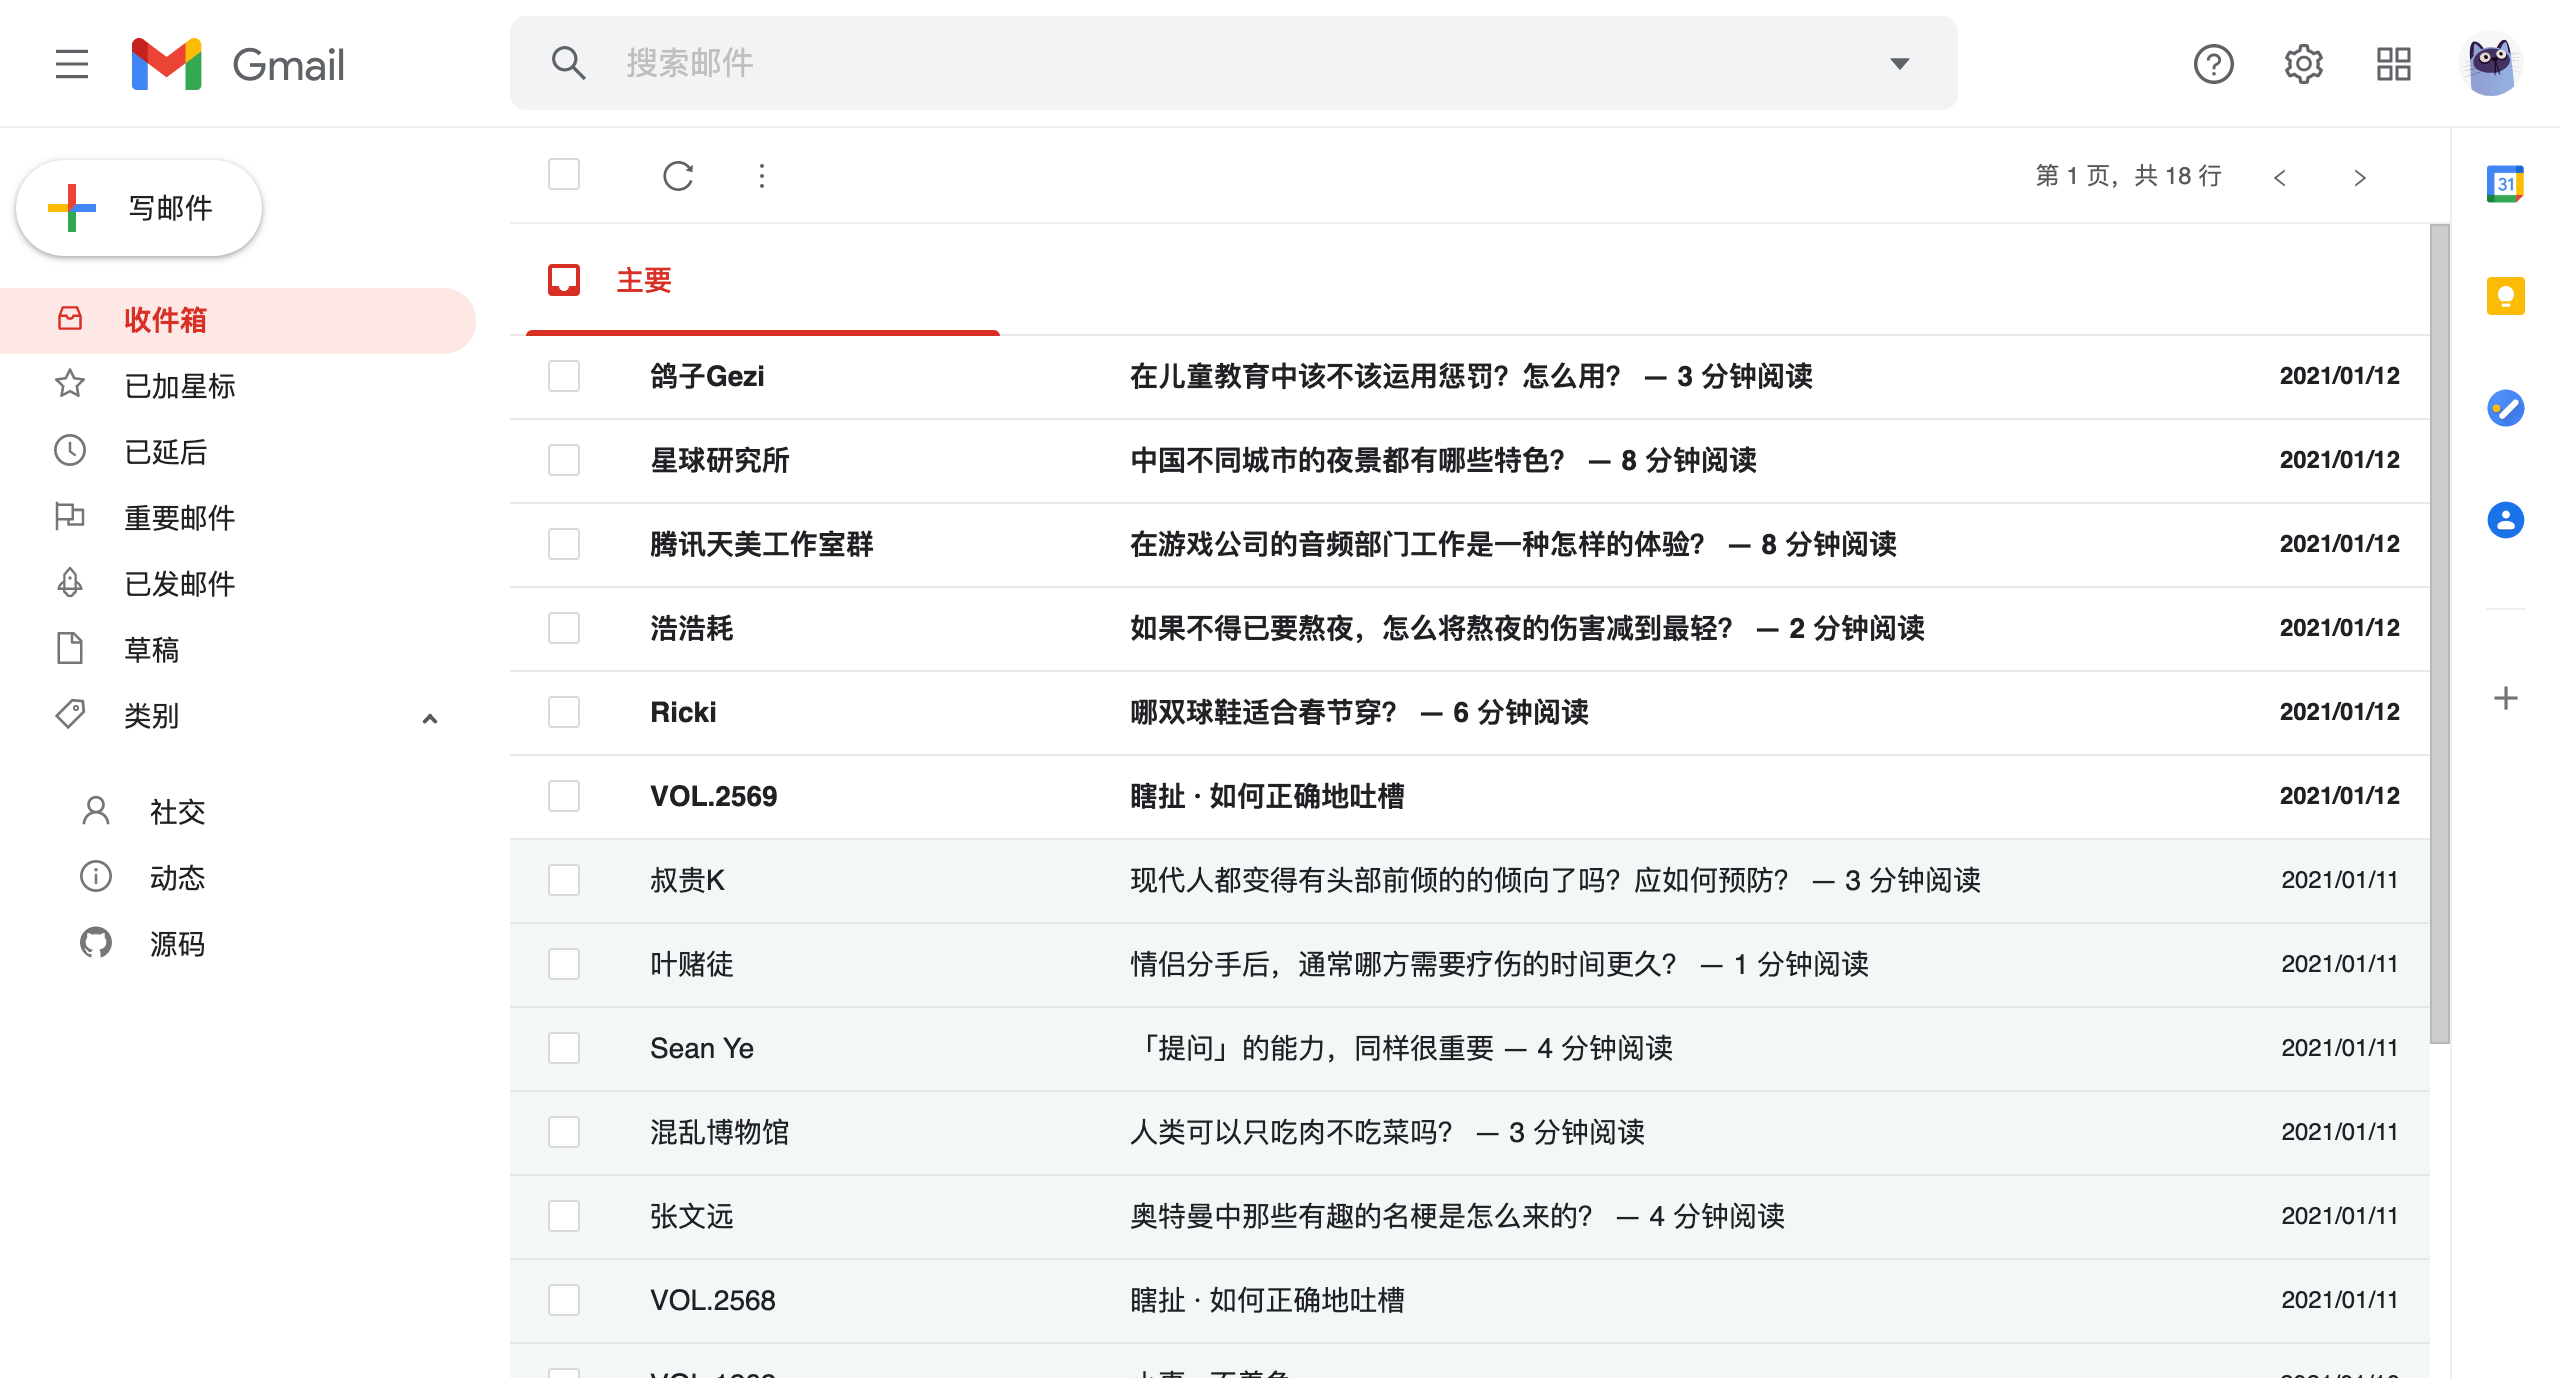
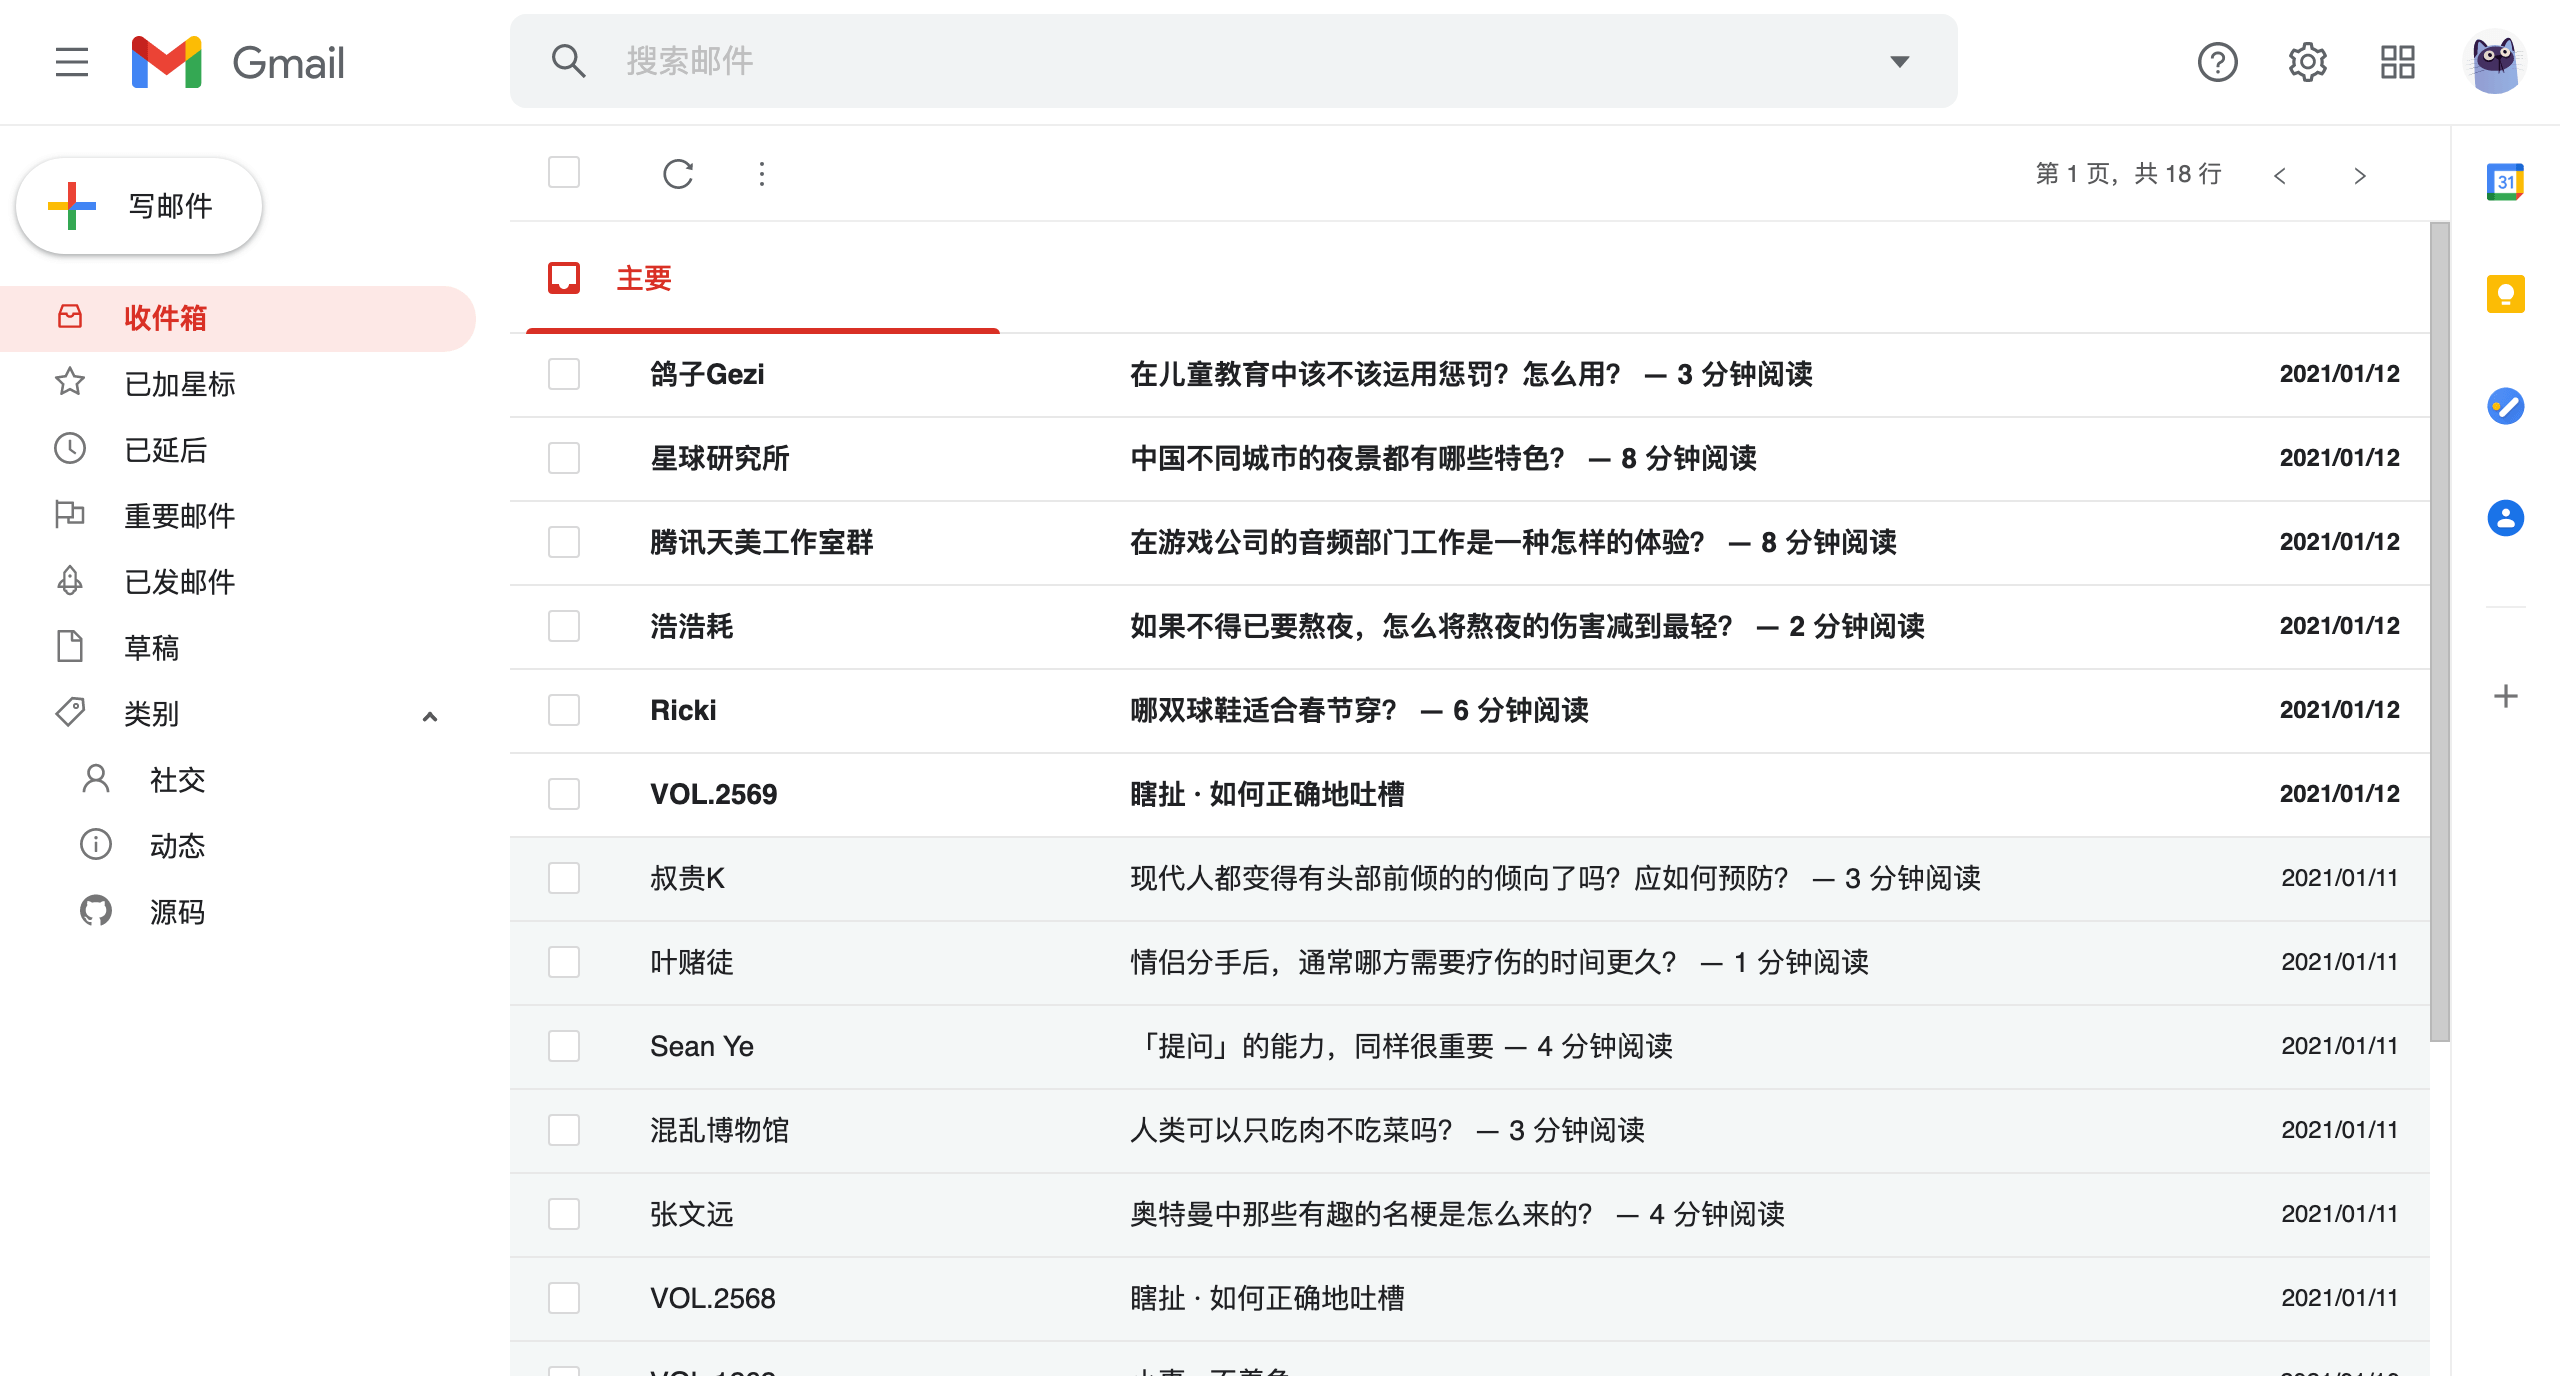
feat: responsive

diff --git a/components/Header.vue b/components/Header.vue
@@ -14,29 +14,28 @@
       </div>
     </div>
     <div class="toolbar">
-      <a-input
-        class="search-box"
-        placeholder="搜索邮件"
-      >
-        <a-tooltip
-          slot="prefix"
-          title="搜索"
-          placement="bottom"
-        >
-          <a-button>
-            <a-icon type="search" />
-          </a-button>
-        </a-tooltip>
-        <a-tooltip
-          slot="suffix"
-          title="显示搜索选项"
-          placement="bottom"
-        >
-          <a-button>
-            <a-icon type="caret-down" />
-          </a-button>
-        </a-tooltip>
-      </a-input>
+      <div class="search-box">
+        <a-input placeholder="搜索邮件">
+          <a-tooltip
+            slot="prefix"
+            title="搜索"
+            placement="bottom"
+          >
+            <a-button>
+              <a-icon type="search" />
+            </a-button>
+          </a-tooltip>
+          <a-tooltip
+            slot="suffix"
+            title="显示搜索选项"
+            placement="bottom"
+          >
+            <a-button>
+              <a-icon type="caret-down" />
+            </a-button>
+          </a-tooltip>
+        </a-input>
+      </div>
       <div class="info">
         <a-tooltip title="支持" placement="bottom">
           <a-button>
@@ -98,26 +97,29 @@
     display flex
     flex 1
     .search-box
-      padding 8px 0
-      width 724px
-      button
-        width 38px
-        height 38px
-        .anticon
-          color $icon-color
-        &:hover,
-        &:active,
-        &:focus
-          background #E2E5E6
-      .ant-input-prefix
-        left 10px
-        .anticon
-          font-size 19px
-          margin-top 3px
-      .ant-input-suffix
-        right 10px
-        .anticon
-          margin-top 5px
+      display flex
+      flex 1
+      .ant-input-affix-wrapper
+        max-width 724px
+        padding 8px 0
+        button
+          width 38px
+          height 38px
+          .anticon
+            color $icon-color
+          &:hover,
+          &:active,
+          &:focus
+            background #E2E5E6
+        .ant-input-prefix
+          left 10px
+          .anticon
+            font-size 19px
+            margin-top 3px
+        .ant-input-suffix
+          right 10px
+          .anticon
+            margin-top 5px
       input
         height 100%
         border-radius 8px
@@ -130,11 +132,11 @@
           box-shadow 0 1px 1px 0 rgba(65, 69, 73, 0.3), 0 1px 3px 0 rgba(65, 69, 73, 0.15)
           -webkit-box-shadow 0 1px 1px 0 rgba(65, 69, 73, 0.3), 0 1px 3px 0 rgba(65, 69, 73, 0.15)
     .info
-      display flex
-      flex 1
+      width 210px
       justify-content flex-end
       align-items center
-      padding 0 15px
+      padding-right 13px
+      display flex
       button
         width 40px
         height 40px
@@ -148,4 +150,12 @@
           width 33px
           height 33px
           border-radius 50%
+  @media (max-width: 768px)
+    .sitename .logo,
+    .toolbar .info
+      display none
+    .sitename
+      width 73px
+    .toolbar
+      padding-right 5px
 </style>

diff --git a/layouts/default.vue b/layouts/default.vue
@@ -2,7 +2,7 @@
   <a-layout class="mail-layout">
     <Header @toggle-collapsed="toggleCollapsed" />
     <a-layout :class="{ 'side-collapsed': collapsed }">
-      <Sidebar :collapsed="collapsed" />
+      <Sidebar :collapsed="collapsed" @toggle-collapsed="toggleCollapsed" />
       <SidebarRight />
       <a-layout class="mailbox">
         <a-layout-content class="content">
@@ -27,6 +27,19 @@ export default {
   data() {
     return {
       collapsed: false,
+      screenWidth: 0
+    }
+  },
+  mounted() {
+    this.screenWidth = document.body.clientWidth
+    this.collapsed = this.screenWidth <= 768 ? true : false
+
+    const that = this
+    window.onresize = () => {
+      return (() => {
+        that.screenWidth = document.body.clientWidth
+        that.collapsed = that.screenWidth <= 768 ? true : false
+      })()
     }
   },
   methods: {
@@ -108,6 +121,19 @@ body
       margin-left $sidebar-width-collapsed
       .content .header
         width calc(100% - 73px - 55px)
+
+  @media (max-width: 768px)
+    .mailbox
+      margin-left $sidebar-width-collapsed
+      margin-right 0
+      &::-webkit-scrollbar
+        width 5px
+      &::-webkit-scrollbar-thumb
+        border-radius 3px
+      .content .header
+        width calc(100% - 73px)
+    .side-collapsed .mailbox .content .header
+      width calc(100% - 73px)
 
 .ant-tooltip
   .ant-tooltip-arrow

diff --git a/components/Sidebar.vue b/components/Sidebar.vue
@@ -13,6 +13,7 @@
       </div>
     </div>
     <a-menu
+      class="menu"
       mode="inline"
       :default-selected-keys="['menu-inbox']"
       :default-open-keys="['menu-catagory']"
@@ -104,10 +105,12 @@ export default {
       padding 0 24px 0 0
       border-radius 24px
       cursor pointer
+      transition box-shadow 0.15s, background-color 0.15s
       &:hover
         box-shadow 0 1px 2px 0 rgba(60, 64 67, 0.3),
                     0 1px 3px 1px rgba(60, 64, 67, 0.1),
-                    0 3px 8px 5px rgba(60, 64 67, 0.12)
+                    0 3px 8px 4px rgba(60, 64 67, 0.13)
+        background-color #fafafb
       &::before
         content ''
         display block
@@ -117,9 +120,9 @@ export default {
         background-repeat no-repeat
         background-size 32px
         background-image url(https://www.gstatic.com/images/icons/material/colored_icons/2x/create_32dp.png)
-  .ant-menu
+  .menu
     padding-right 18px
-    margin-top 15px
+    width $sidebar-width
     .anticon
       font-size 16px
       color #767676
@@ -167,4 +170,6 @@ export default {
         &::before
           width 56px
           height 56px
+    .menu
+      width $sidebar-width-collapsed
 </style>

diff --git a/pages/index.vue b/pages/index.vue
@@ -55,18 +55,6 @@
         </a-table>
       </a-tab-pane>
     </a-tabs>
-
-    <!-- <a-table
-      :columns="columns"
-      :data-source="data"
-      :showHeader="false"
-      :row-selection="selectItem"
-      :pagination="false"
-      :customRow="goToArticle"
-      :rowClassName="setClassName"
-    >
-      <div class="time" slot="time" slot-scope="text">{{ text }}</div>
-    </a-table> -->
   </div>
 </template>
 
@@ -283,4 +271,12 @@ export default {
       padding-right 5px
     .ant-checkbox-wrapper
       margin-left -7px
+  
+  @media (max-width: 1024px)
+    .header
+      padding-right 8px
+      .select-all
+        display none
+      .operation
+        margin-left 8px
 </style>

diff --git a/pages/article.vue b/pages/article.vue
@@ -204,4 +204,16 @@ export default {
         &:hover
           background #F6FBFF
           color $accent-color
+  @media (max-width: 1024px)
+    .header
+      padding 0 8px
+      .operation
+        display none
+    .article
+      padding-left 10px
+      padding-right 10px
+      .question
+        .meta
+          img.avatar
+            margin-left 0
 </style>

diff --git a/components/SidebarRight.vue b/components/SidebarRight.vue
@@ -49,4 +49,8 @@
     margin 8px auto 24px
     width 20px
     border-top $border
+
+@media (max-width: 768px)
+  .sidebar-right
+    display none
 </style>
